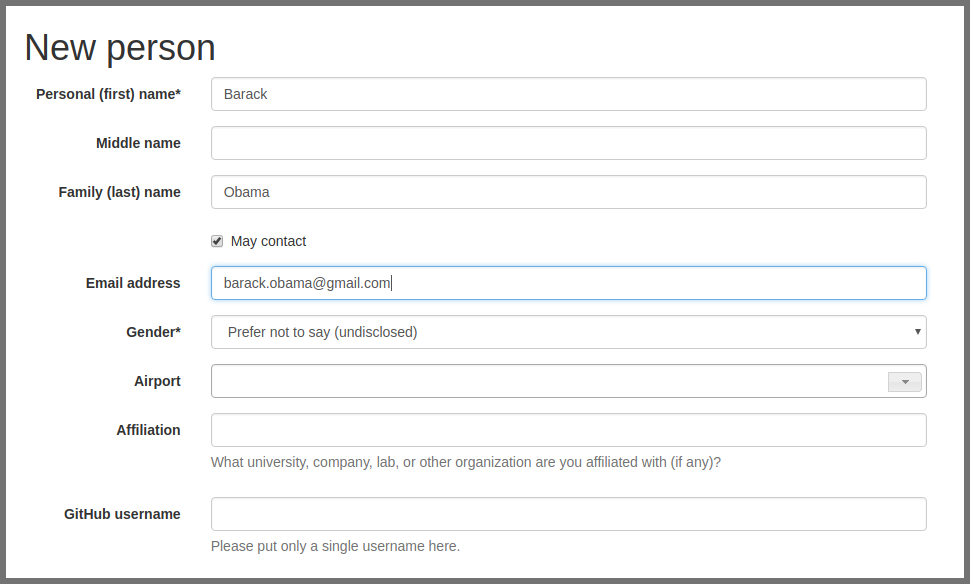
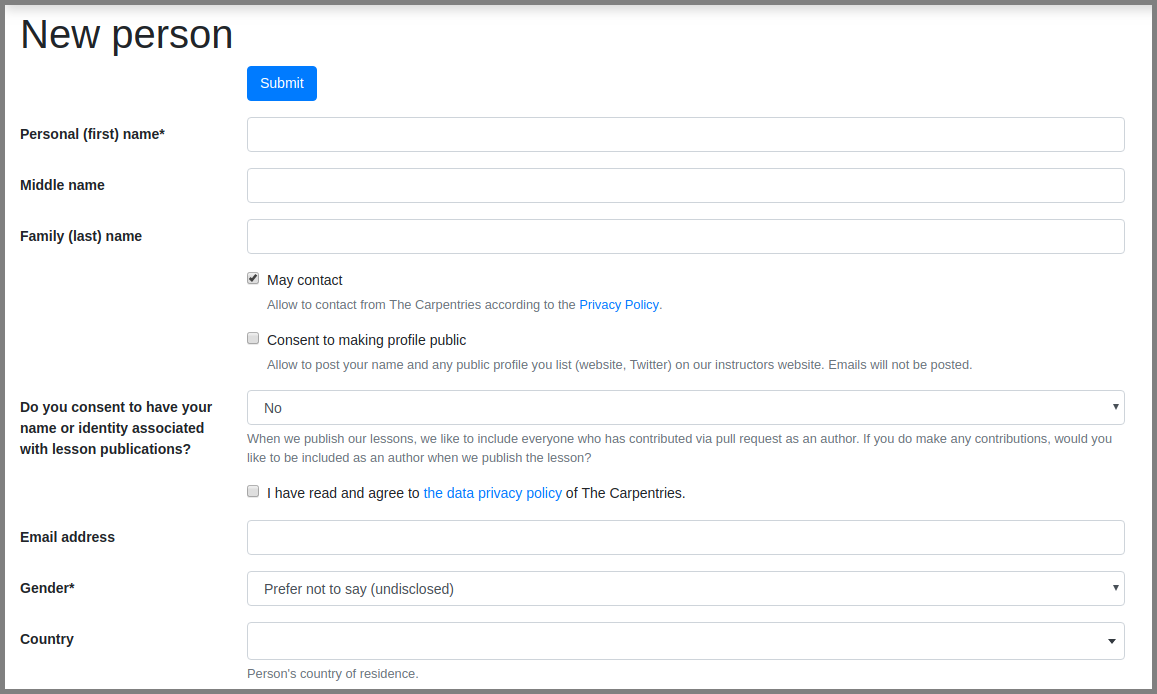
update instructions for adding persons to amy

diff --git a/topic_folders/workshop_administration/amy_manual.md b/topic_folders/workshop_administration/amy_manual.md
@@ -35,21 +35,23 @@ If the site name is not already in AMY, add a new one by selecting "New Organiza
 
 If a person's record does not exist in the database, it can be added individually or as part of a bulk upload.
 
-#### Adding an individual record
+#### Adding an individual person record
 
 Select "New person" and enter in as much information as possible.  At minimum a personal name is required.  If the airport is not listed, it will need to be [added in](#adding-a-new-airport).
 
+The person's privacy settings can also be set here.  The person's profile will display on The Carpentries website only if the consent box is checked.
+
 ![AMY add new person](images/amy_new_person.png)
 
-#### Adding bulk records
+#### Adding bulk person records
 
-`Person` records can also be added in bulk from a `.csv` file using the `Bulk add persons` menu option in the regular `+` menu or the `More` menu. **Note: To bulk add records, the persons must have a role specified (instructor,helper,learner,host) associated with a specific event**.
+`Person` records can also be added in bulk from a `.csv` file using the `Bulk add persons` menu option in the  `New` menu at the top right or the `More` menu. **Note: To bulk add records, the persons must have a role specified (instructor,helper,learner,host) associated with a specific event**.
 
 ![AMY bulk add person menu](images/amy_bulk_add_person_menu.png)
 
-Use the blank template to generate a well formed csv noting each person's personal name, family name, email address, role, and associated event.
+Use the blank template to generate a well formed csv noting each person's personal name, family name (optional), email address (optional), role, and associated event. Any additional information about the person must be entered manually.
 
-The role must exactly match the instructions. The event slug must exactly match the slug for the event recorded in AMY.
+The role must exactly match the [instructions here](https://amy.carpentries.org/workshops/persons/bulk_upload/). The event slug must exactly match the slug for the event recorded in AMY.
 
 This will take you to a screen where you can verify each record, correct any errors, and submit them for bulk upload.
 
